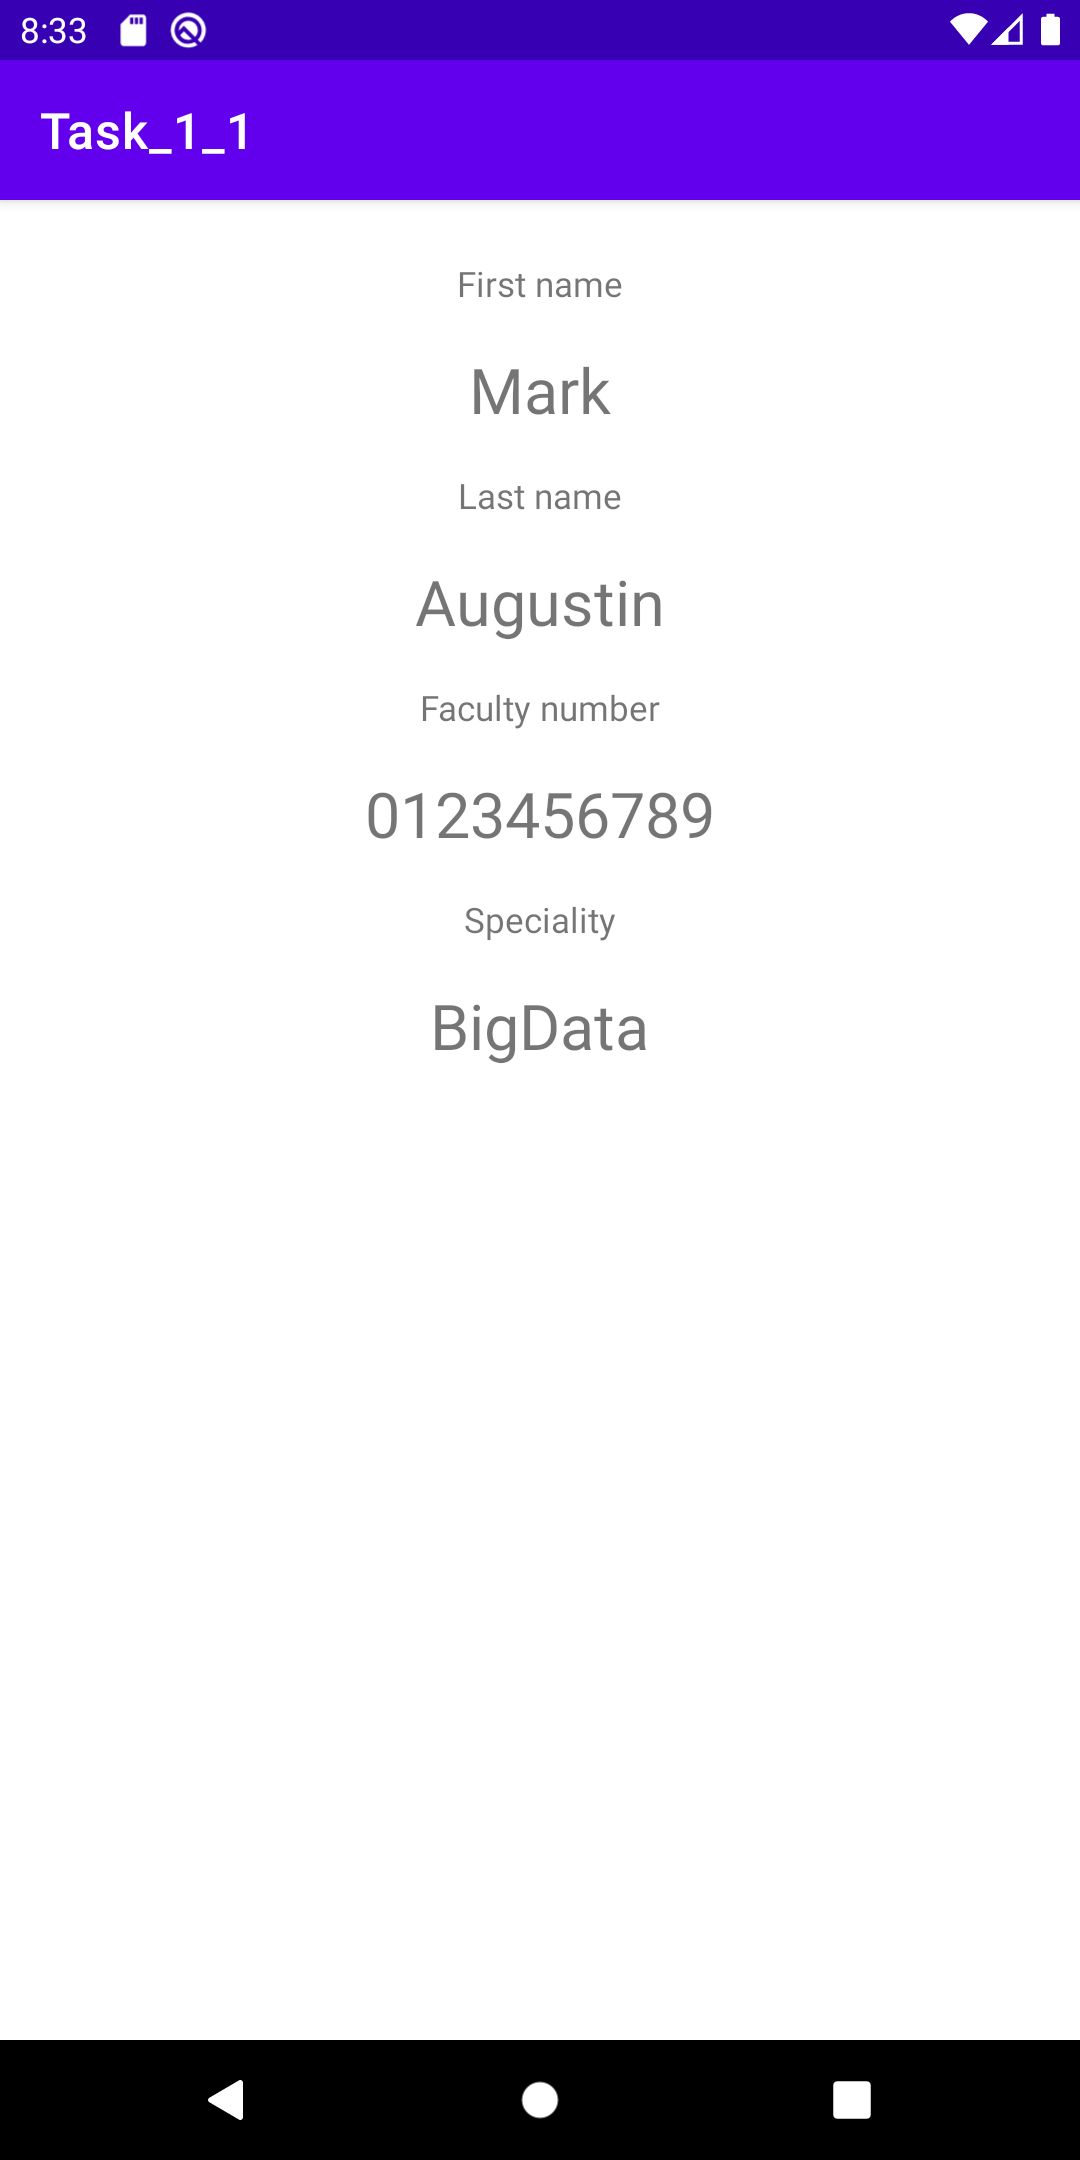
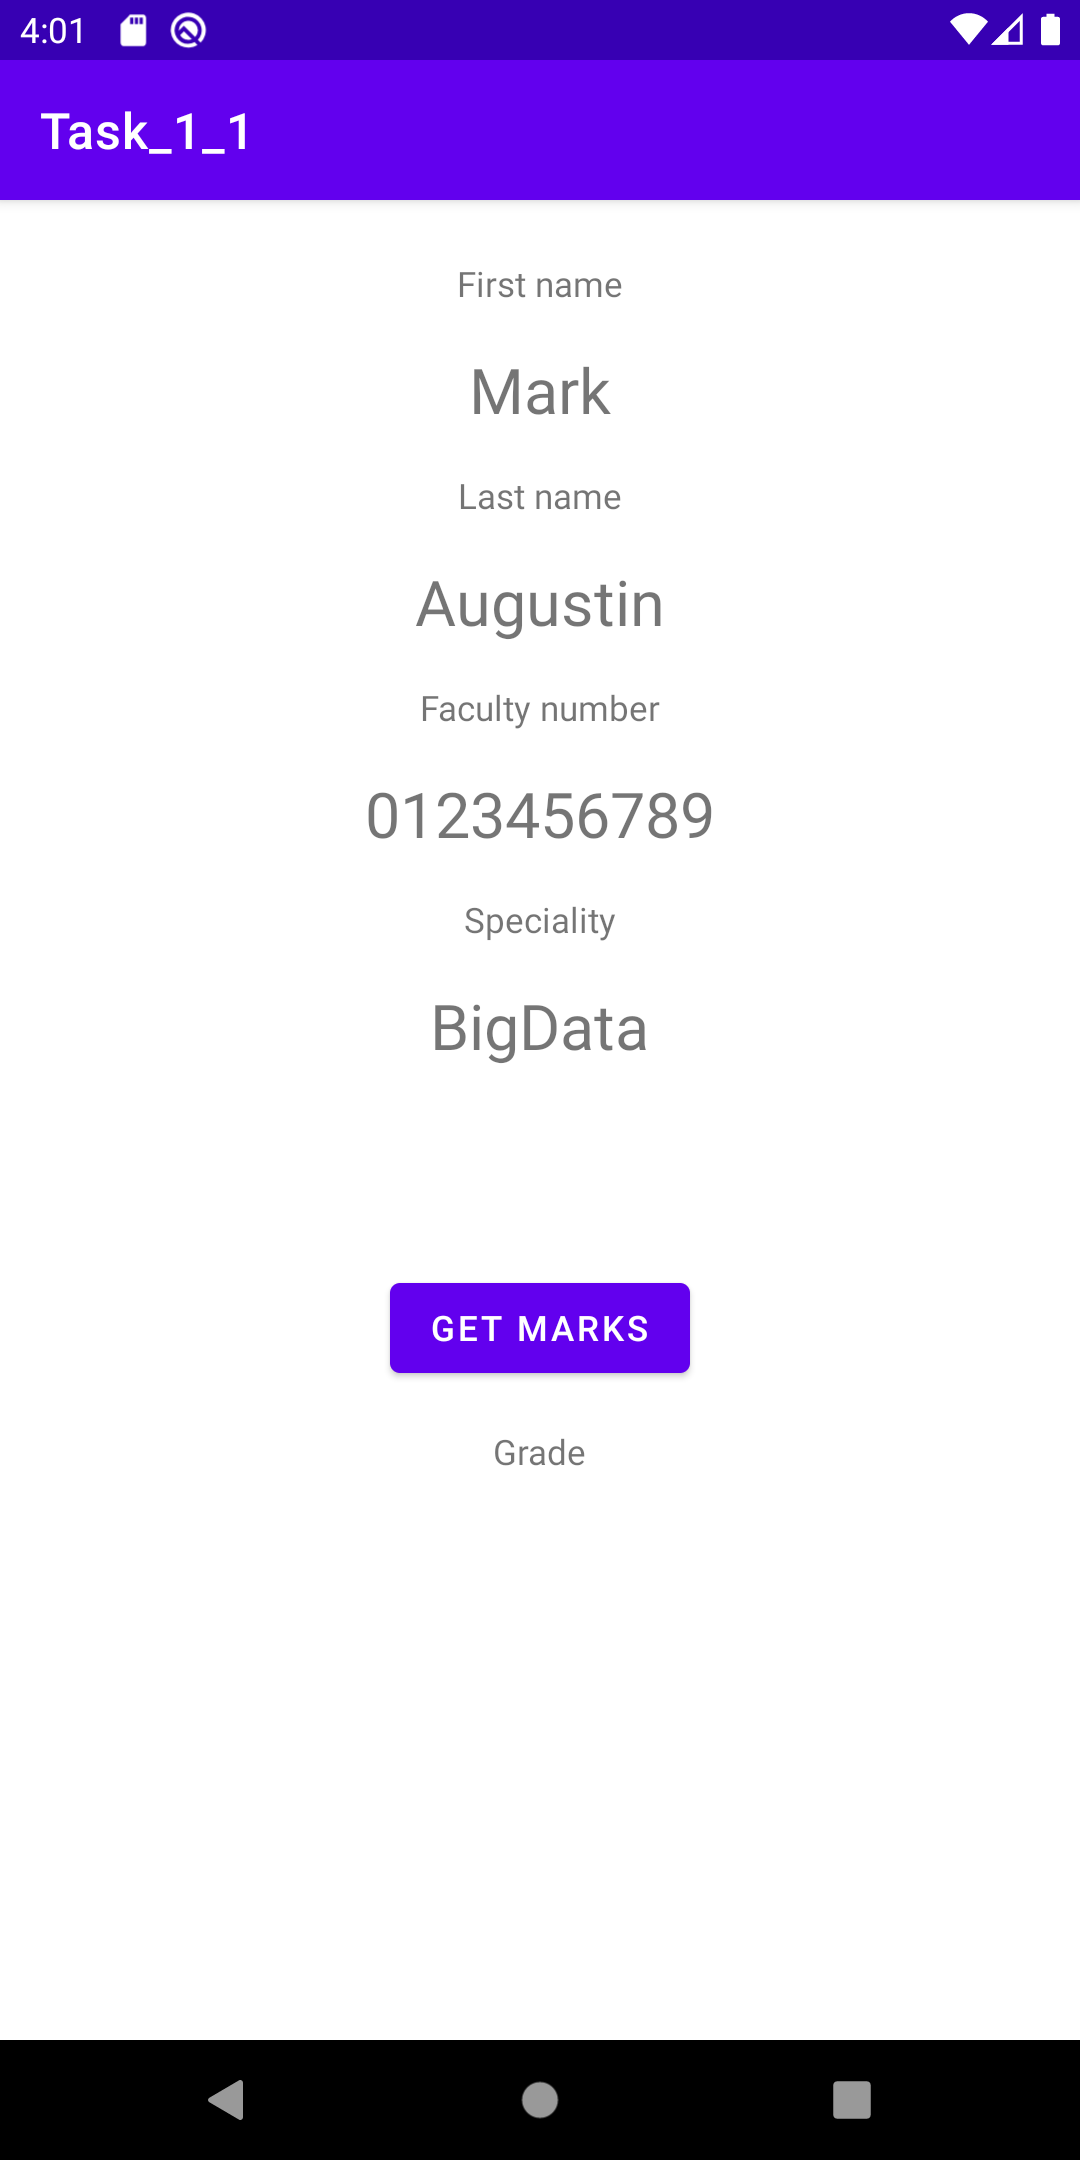
Working first application - Android

diff --git a/Programming_for_Mobile_Internet_Devices/Task_1_1/app/src/main/java/com/example/task_1_1/SecondAnotherActivity.java b/Programming_for_Mobile_Internet_Devices/Task_1_1/app/src/main/java/com/example/task_1_1/SecondAnotherActivity.java
@@ -1,0 +1,67 @@
+package com.example.task_1_1;
+
+import android.content.Intent;
+import android.os.Bundle;
+import android.view.View;
+import android.view.ViewGroup;
+import android.widget.Button;
+import android.widget.TextView;
+
+import androidx.appcompat.app.AppCompatActivity;
+
+public class SecondAnotherActivity extends AppCompatActivity {
+    private Integer numberOfMarks;
+    private Integer sumOfMarks;
+    private Float meanOfMarks;
+
+    private void updateStatistics(){
+        ((TextView) this.findViewById(R.id.textViewMarksNumberView)).setText(numberOfMarks.toString());
+        ((TextView) this.findViewById(R.id.textViewSumView)).setText(sumOfMarks.toString());
+        ((TextView) this.findViewById(R.id.textViewMeanView)).setText(String.format("%.2f", meanOfMarks));
+    }
+
+    private void initMarks(){
+        numberOfMarks = 0;
+        sumOfMarks = 0;
+        meanOfMarks = 0f;
+    }
+    private void updateMarks(){
+        numberOfMarks++;
+        sumOfMarks += getRandomNumber(1,6);
+        meanOfMarks = (float)sumOfMarks/(float)numberOfMarks;
+        updateStatistics();
+    }
+
+    public int getRandomNumber(int min, int max) {
+        return (int) ((Math.random() * (max - min)) + min);
+    }
+
+    @Override
+    protected void onCreate(Bundle savedInstanceState) {
+        super.onCreate(savedInstanceState);
+        setContentView(R.layout.activity_second_another);
+        initMarks();
+        updateMarks();
+        ((Button) findViewById(R.id.buttonGetMarks)).setOnClickListener(new View.OnClickListener() {
+            @Override
+            public void onClick(View view) {
+                updateMarks();
+            }
+        });
+        ((Button) findViewById(R.id.buttonAcceptMarks)).setOnClickListener(new View.OnClickListener() {
+            @Override
+            public void onClick(View view) {
+                finish();
+            }
+        });
+    }
+
+    @Override
+    public void finish() {
+        // Prepare data intent
+        Intent data = new Intent();
+        data.putExtra("returnGrade", String.format("%.2f", meanOfMarks));
+        setResult(RESULT_OK, data);
+        super.finish();
+    }
+}

diff --git a/Programming_for_Mobile_Internet_Devices/Task_1_1/app/src/main/java/com/example/task_1_1/AnotherActivity.java b/Programming_for_Mobile_Internet_Devices/Task_1_1/app/src/main/java/com/example/task_1_1/AnotherActivity.java
@@ -4,6 +4,7 @@ import android.content.Intent;
 import android.os.Bundle;
 import android.view.View;
 import android.view.ViewGroup;
+import android.widget.Button;
 import android.widget.TextView;
 
 import androidx.appcompat.app.AppCompatActivity;
@@ -13,6 +14,7 @@ public class AnotherActivity extends AppCompatActivity {
     TextView textViewLastNameView = null;
     TextView textViewFacultyNumberView = null;
     TextView textViewSpecialtyView = null;
+    TextView textViewGradeView = null;
     View view = null;
 
     private void putValuesToFields(String firstName, String  lastName, String  facultyNumber, String specialty){
@@ -31,6 +33,7 @@ public class AnotherActivity extends AppCompatActivity {
         textViewLastNameView = view.findViewById(R.id.textViewLastNameView);
         textViewFacultyNumberView = view.findViewById(R.id.textViewFacultyNumberView);
         textViewSpecialtyView = view.findViewById(R.id.textViewSpecialtyView);
+        textViewGradeView = view.findViewById(R.id.textViewGradeView);
 
         final Intent myLocalIntent = getIntent();
         final Bundle myBundle = myLocalIntent.getExtras();
@@ -38,6 +41,20 @@ public class AnotherActivity extends AppCompatActivity {
         putValuesToFields(myBundle.getString("firstName"), myBundle.getString("lastName"),
                 myBundle.getString("facultyNumber"), myBundle.getString("specialty"));
 
-
+        ((Button) findViewById(R.id.buttonGetMarks)).setOnClickListener(new View.OnClickListener() {
+            @Override
+            public void onClick(View view) {
+                Intent customIntent = new Intent(AnotherActivity.this, SecondAnotherActivity.class);
+                startActivityForResult(customIntent, 1);
+            }
+        });
     }
+
+    @Override
+    protected void onActivityResult(int requestCode, int resultCode, Intent data) {
+        super.onActivityResult(requestCode, resultCode, data);
+        Bundle myResultBundle = data.getExtras();
+        textViewGradeView.setText(myResultBundle.getString("returnGrade"));
+
+    };
 }

diff --git a/Programming_for_Mobile_Internet_Devices/Task_1_1/app/src/main/java/com/example/task_1_1/MainActivity.java b/Programming_for_Mobile_Internet_Devices/Task_1_1/app/src/main/java/com/example/task_1_1/MainActivity.java
@@ -31,7 +31,6 @@ public class MainActivity extends AppCompatActivity {
                 String itemName = root.getResources().getResourceEntryName(nextChild.getId());
                 Log.d(TAG, "XXX initValidation " + itemName);
                 if(itemName.startsWith("editText") || itemName.startsWith("spinner")){
-//                    updateNotValidItems(itemName, Boolean.FALSE);
                     notValidItems.add(itemName);
                 }
             } catch (Exception e){
@@ -145,7 +144,7 @@ public class MainActivity extends AppCompatActivity {
         spinnerSpecialty.setOnItemSelectedListener(new AdapterView.OnItemSelectedListener() {
             @Override
             public void onItemSelected(AdapterView<?> parent, View view, int position, long id) {
-                String itemName = view.getResources().getResourceEntryName(spinnerSpecialty.getId());
+                String itemName = getResources().getResourceEntryName(spinnerSpecialty.getId());
                 updateNotValidItems(itemName, spinnerSpecialty.getSelectedItemPosition() != 0);
             }
 

diff --git a/Programming_for_Mobile_Internet_Devices/Task_1_1/Readme.md b/Programming_for_Mobile_Internet_Devices/Task_1_1/Readme.md
@@ -3,8 +3,9 @@
 Passing parameters between Intents. 
 
 Features:
-* 2 fragments
-* Pass arguments between fragments
+* Pass arguments between Intents
+  * startActivity(Intent)
+  * startActivityForResult()
 * Validation on lost focus:
   * Use regex to validate fields
   * `First name` and `Last name` - every first letter is capital
@@ -15,6 +16,8 @@ Features:
   1. Take data from user
   2. Validate input data
   3. Pass data to the another view
+  4. Go to third view waiting as startActivityForResult
+  5. Finish third view and return arguments to second view
 
 ## Screenshots
 ### View not valid
@@ -23,7 +26,14 @@ Features:
 ### View valid
 ![View valid](./Readme/view_2.png)
 
-### Result
+### Result from first form
 ![Result](./Readme/view_3.png)
+
+### Make calculation in another activity
+![Result](./Readme/view_4.png)
+
+### Pass arguments to parent
+![Result](./Readme/view_5.png)
+
 <!-- ![](./Readme/default) -->
 

diff --git a/Programming_for_Mobile_Internet_Devices/Readme.md b/Programming_for_Mobile_Internet_Devices/Readme.md
@@ -7,15 +7,8 @@ Application based on Fragments. Data validation and printing implemented. Passin
 ## Task_1_1 description
 [Link](Task_1_1/Readme.md)
 Passing parameters between Intents
-
-<!-- Handled states:
-* onCreate(Bundle savedInstanceState)
-* onStart()
-* onRestart()
-* onPostResume()
-* onStop()
-* onPause()
-* onDestroy() -->
+* startActivity(Intent)
+* startActivityForResult()
 
 
 <!-- ## Task 2 description
